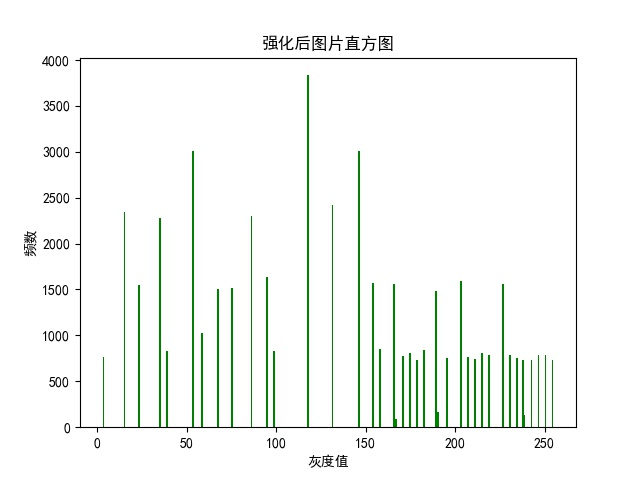
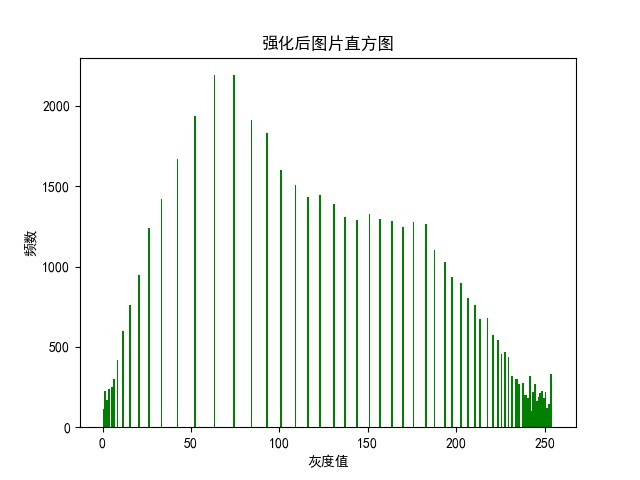
"图片测试"

diff --git a/Histogram_equalization.py b/Histogram_equalization.py
@@ -71,7 +71,7 @@ class HistogramEqualization(object):
         plt.xlabel('灰度值')
         plt.ylabel('概率')
         plt.title('累积分布函数图像')
-        plt.plot(x, self.Cumulative_distribution[0, :], color='green', linewidth=0.5)
+        plt.plot(x, self.Cumulative_distribution[0, :]*255, color='green', linewidth=0.5)
         plt.savefig('./result/cdf.jpg')
 
     def equalization(self,filename='./result/new_img.jpg'):

diff --git a/main.py b/main.py
@@ -1,7 +1,7 @@
 from Histogram_equalization import HistogramEqualization
 
 if __name__ == '__main__':
-    HE = HistogramEqualization('./pic/Test.jpg')  # 建立实例对象
+    HE = HistogramEqualization('./pic/Test(2).jpg')  # 建立实例对象
     HE.resize((224, 224))  # 归一化图像尺寸
     HE.draw_histogram()  # 画原始图像直方图
     HE.draw_cd_f()  # 画原始图像累积分布函数

diff --git a/test.py b/test.py
@@ -1,0 +1,4 @@
+import cv2
+img = cv2.imread('./pic/IMAGEnet.JPG')
+img = cv2.cvtColor(img,cv2.COLOR_BGR2GRAY)
+cv2.imwrite('./result/imagenet.jpg',img)
